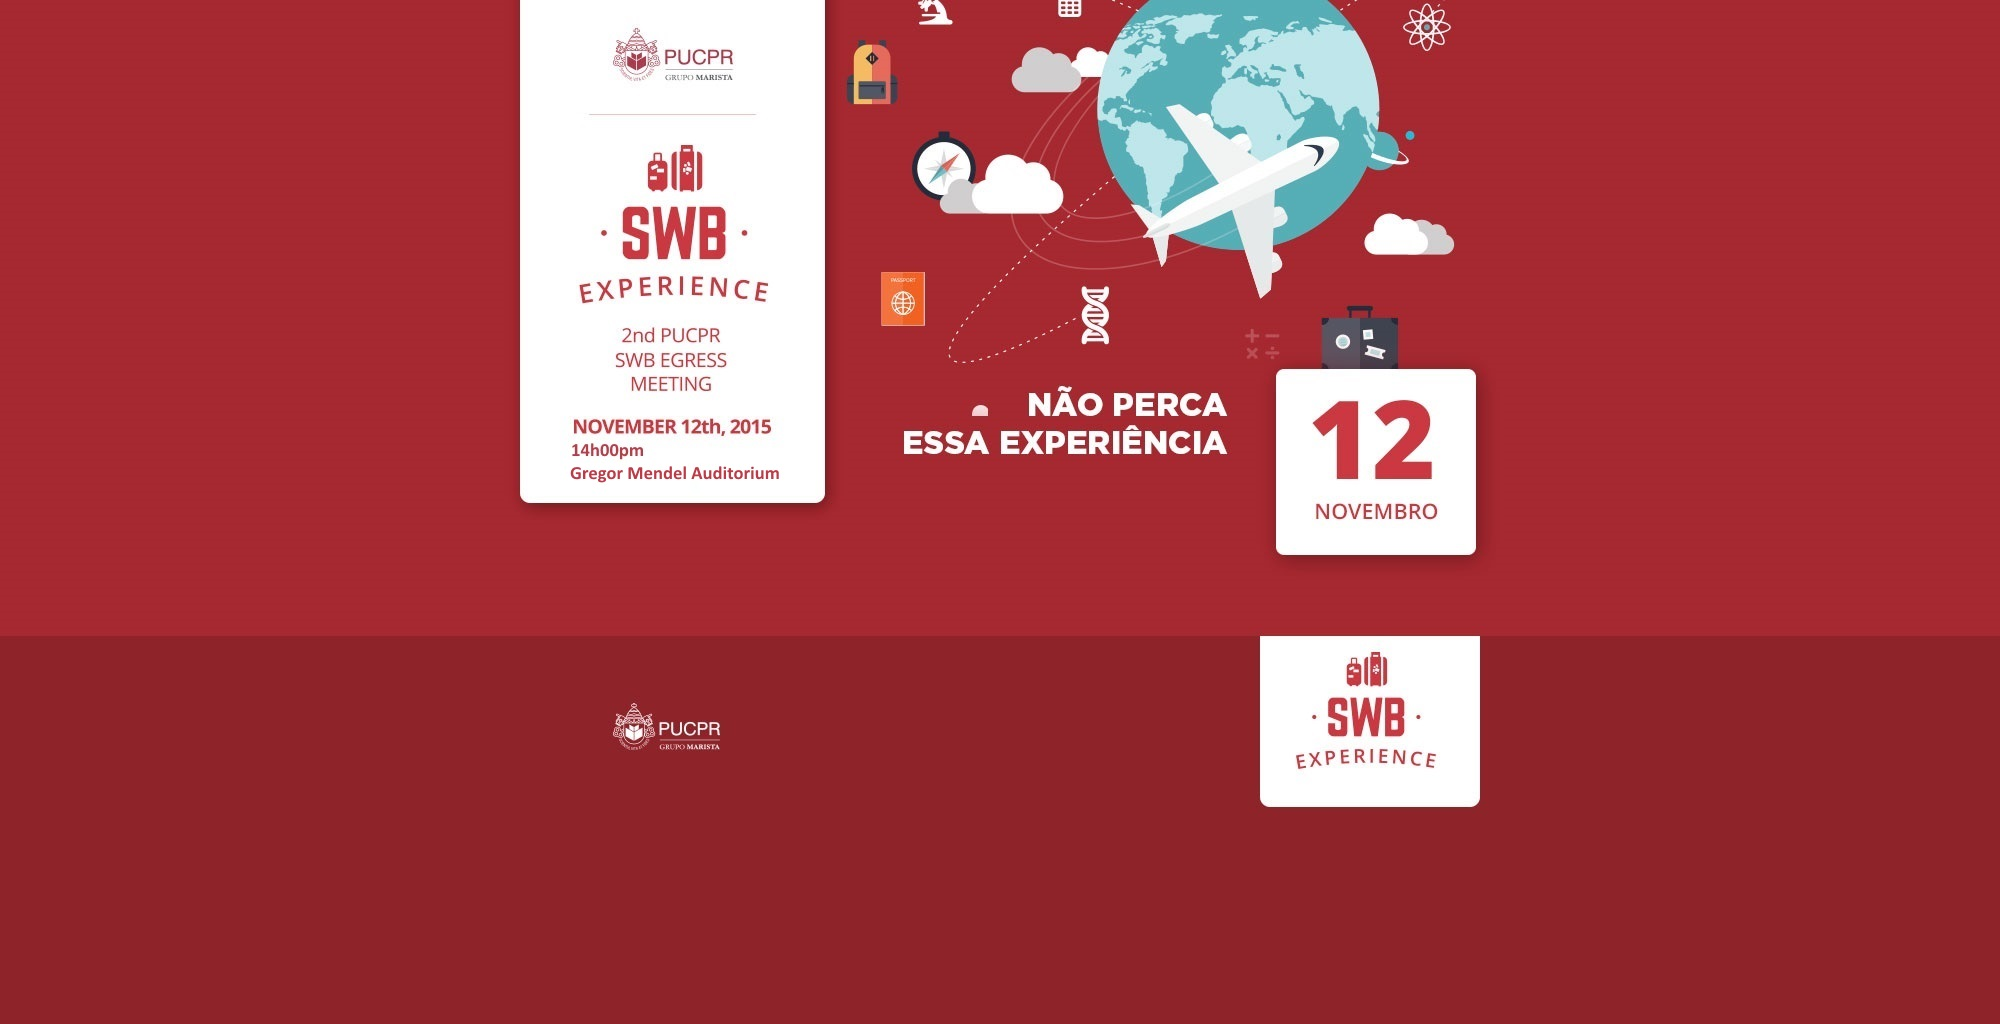
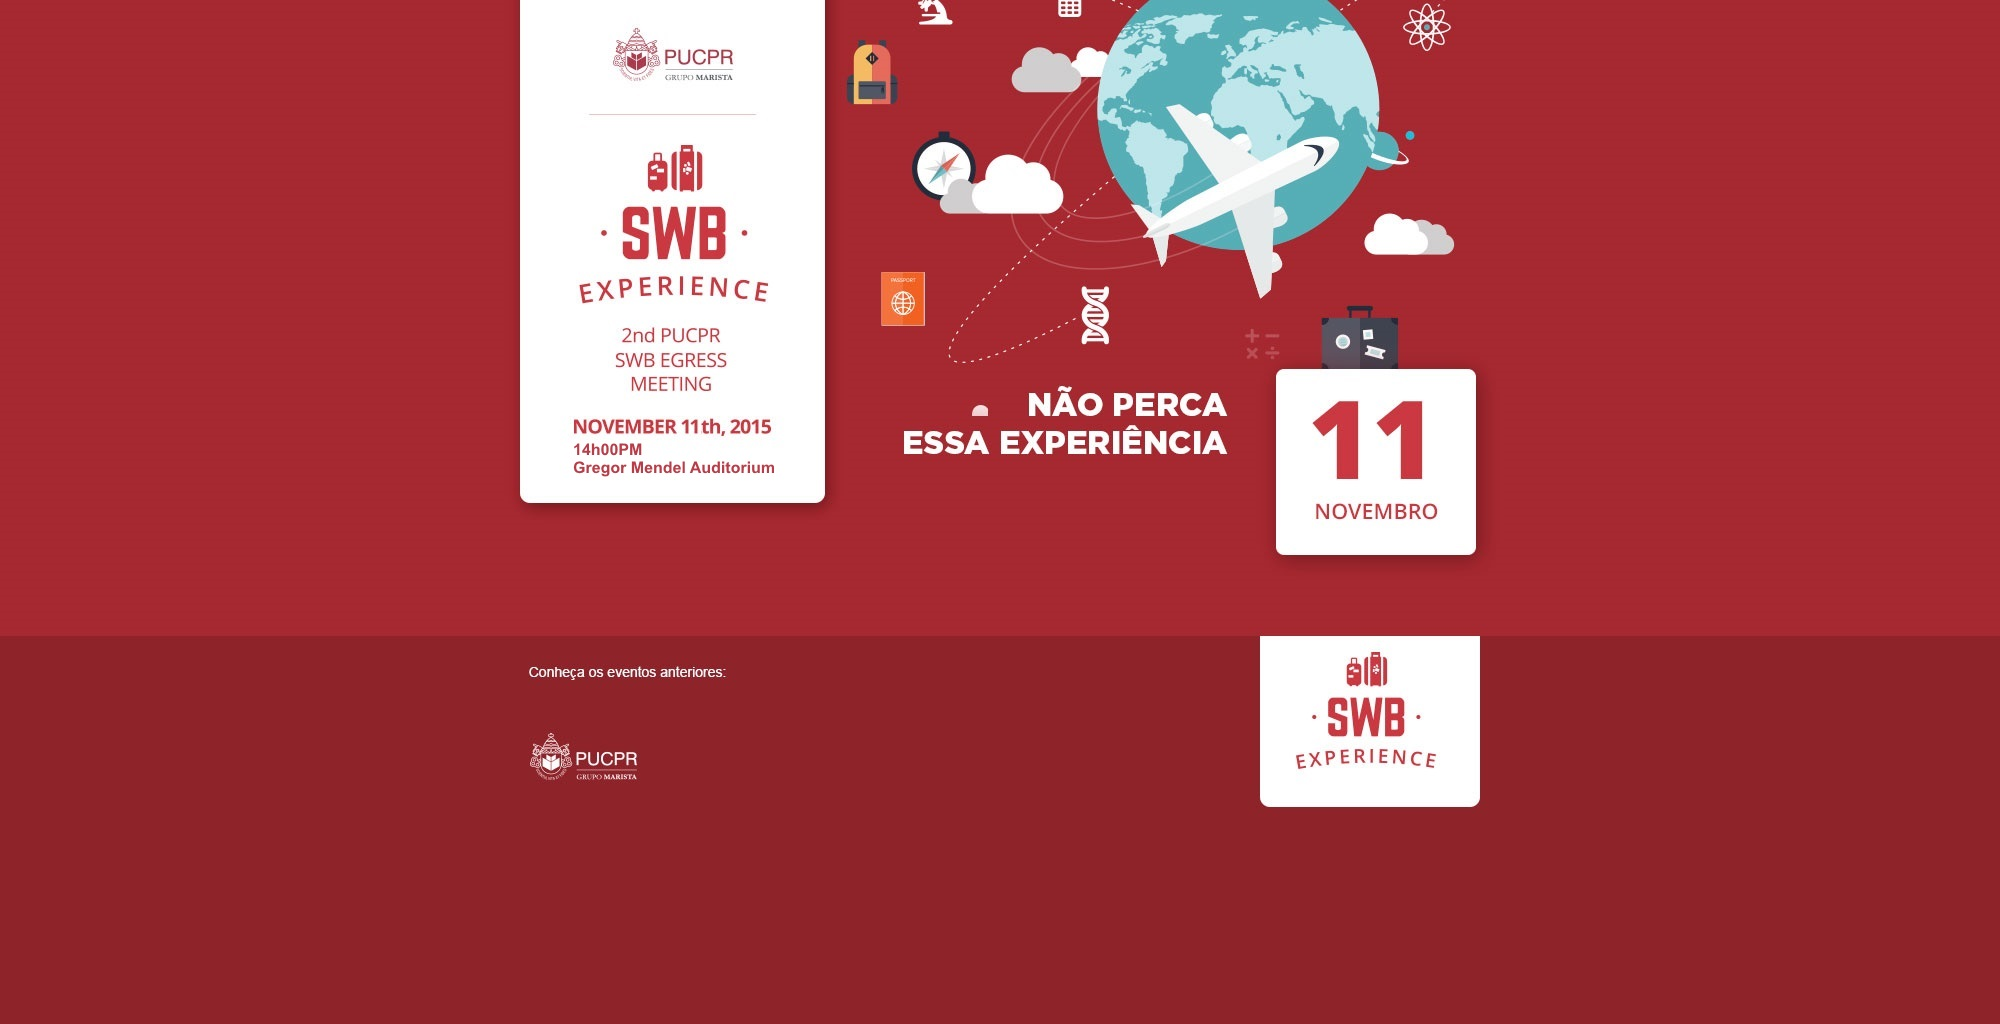
At.28.10.205.a
Atualizações site semic e swb

Changed region(s): [[0.248, 0.625, 0.372, 0.7812], [0.279, 0.4375, 0.403, 0.4688], [0.682, 0.375, 0.713, 0.4688]]

diff --git a/eventos/swbexperience/application/views/index.php b/eventos/swbexperience/application/views/index.php
@@ -15,7 +15,7 @@ DOCTYPE html>
 				box-shadow: 3px 2px 1px #ffffff;
 				border-color: #FFFFFF;
 				padding: 1px;
-				margin: 25px 10px 10px 0;
+				margin: 430px 735px 10px 0;
 			}
 			body {
 				background-image: url('img/site_teaser.jpg');
@@ -45,7 +45,8 @@ DOCTYPE html>
 	</head>
 	<body>
 		<div class="container">
-			<a href="http://www2.pucpr.br/reol/eventos/swbexperience1st/" target="_blank" ti> <img src=" <?php echo base_url('img/swb1st.jpg');?> " title="1st SWB Experience"/> </a>
+			<a href="http://www2.pucpr.br/reol/eventos/swbexperience1st/" target="_blank" ti> 
+				<img src="img/swb1st.jpg" title="1st SWB Experience"/> </a>
 		</div>
 	</body>
 </html>
